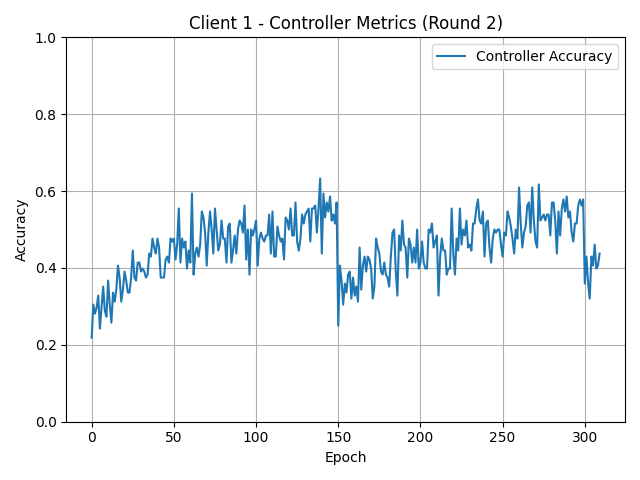
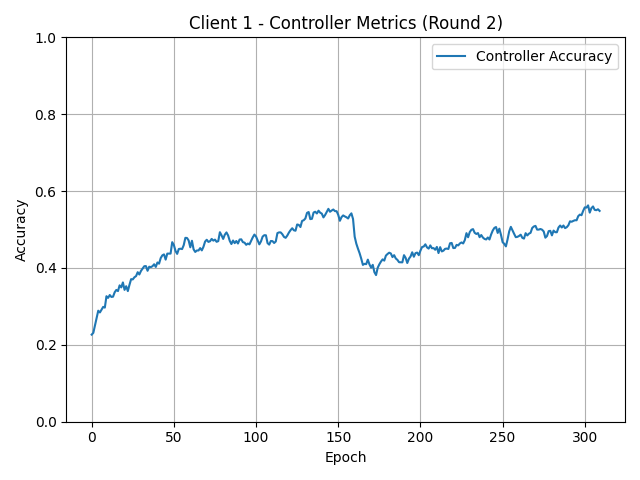
Update FL-ENAS...
Changes made: 1) Smoothed the plots to be prettier and plot the global results. 2) change the Cosine Scheduler so the restart is performed in the epoch 160, this improved the results significantly

Changed region(s): [[0.125, 0.375, 0.9375, 0.7188]]

diff --git a/flwr-cifar10-enas/flwr_cifar10_enas/task.py b/flwr-cifar10-enas/flwr_cifar10_enas/task.py
@@ -420,8 +420,8 @@ class Trainer:
                 
                 # Gráfico de precisión (accuracy)
                 plt.figure()
-                plt.plot(child_train_accuracies, label="Child Train Accuracy")
-                plt.plot(child_valid_accuracies, label="Child Validation Accuracy")
+                plt.plot(smooth_curve(child_train_accuracies), label="Child Train Accuracy")
+                plt.plot(smooth_curve(child_valid_accuracies), label="Child Validation Accuracy")
                 plt.title(f"Client {self.partition_id} - Child Metrics (Round {self.actual_round})")
                 plt.xlabel("Epoch")
                 plt.ylabel("Accuracy")
@@ -435,7 +435,7 @@ class Trainer:
                 # Gráfico de precisión (accuracy)
                 plt.figure()
                 # plt.plot(controller_losses, label="Controller Loss")
-                plt.plot(controller_accuracies, label="Controller Accuracy")
+                plt.plot(smooth_curve(controller_accuracies), label="Controller Accuracy")
                 plt.title(f"Client {self.partition_id} - Controller Metrics (Round {self.actual_round})")
                 plt.xlabel("Epoch")
                 plt.ylabel("Accuracy")

diff --git a/flwr-cifar10-enas/flwr_cifar10_enas/plot_results_json.py b/flwr-cifar10-enas/flwr_cifar10_enas/plot_results_json.py
@@ -1,10 +1,10 @@
 import json
 import matplotlib.pyplot as plt
 import os
-
+import numpy as np
 # Ruta al archivo
-results_path = "/workspace/flwr-cifar10-basic/flwr_cifar10_basic/results.json"
-output_dir = "/workspace/flwr-cifar10-basic/flwr_cifar10_basic/plots"
+results_path = "/workspace/flwr-cifar10-enas/flwr_cifar10_enas/results.json"
+output_dir = "/workspace/flwr-cifar10-enas/flwr_cifar10_enas/plots"
 os.makedirs(output_dir, exist_ok=True)
 
 # Cargar los resultados
@@ -34,6 +34,7 @@ plt.xlabel("Round")
 plt.ylabel("Accuracy")
 plt.title("Global Evaluation (Accuracy)")
 plt.ylim(0,1)
+plt.xticks(np.arange(1, 6, 1))
 plt.legend()
 plt.grid(True)
 plt.tight_layout()

diff --git a/flwr-cifar10-enas/flwr_cifar10_enas/src/cifar10/child.py b/flwr-cifar10-enas/flwr_cifar10_enas/src/cifar10/child.py
@@ -23,7 +23,7 @@ DEFINE_boolean("child_lr_cosine", True, "Use cosine lr schedule")
 DEFINE_float("child_lr_dec_rate", 0.1, "")
 DEFINE_float("child_lr_max", 0.05, "for lr schedule")
 DEFINE_float("child_lr_min", 0.0005, "for lr schedule")
-DEFINE_integer("child_lr_T_0", 150, "for lr schedule")
+DEFINE_integer("child_lr_T_0", 160, "for lr schedule")
 DEFINE_integer("child_lr_T_mul", 1, "for lr schedule")
 DEFINE_integer("child_num_aggregate", None, "")
 DEFINE_integer("child_num_replicas", 1, "")
